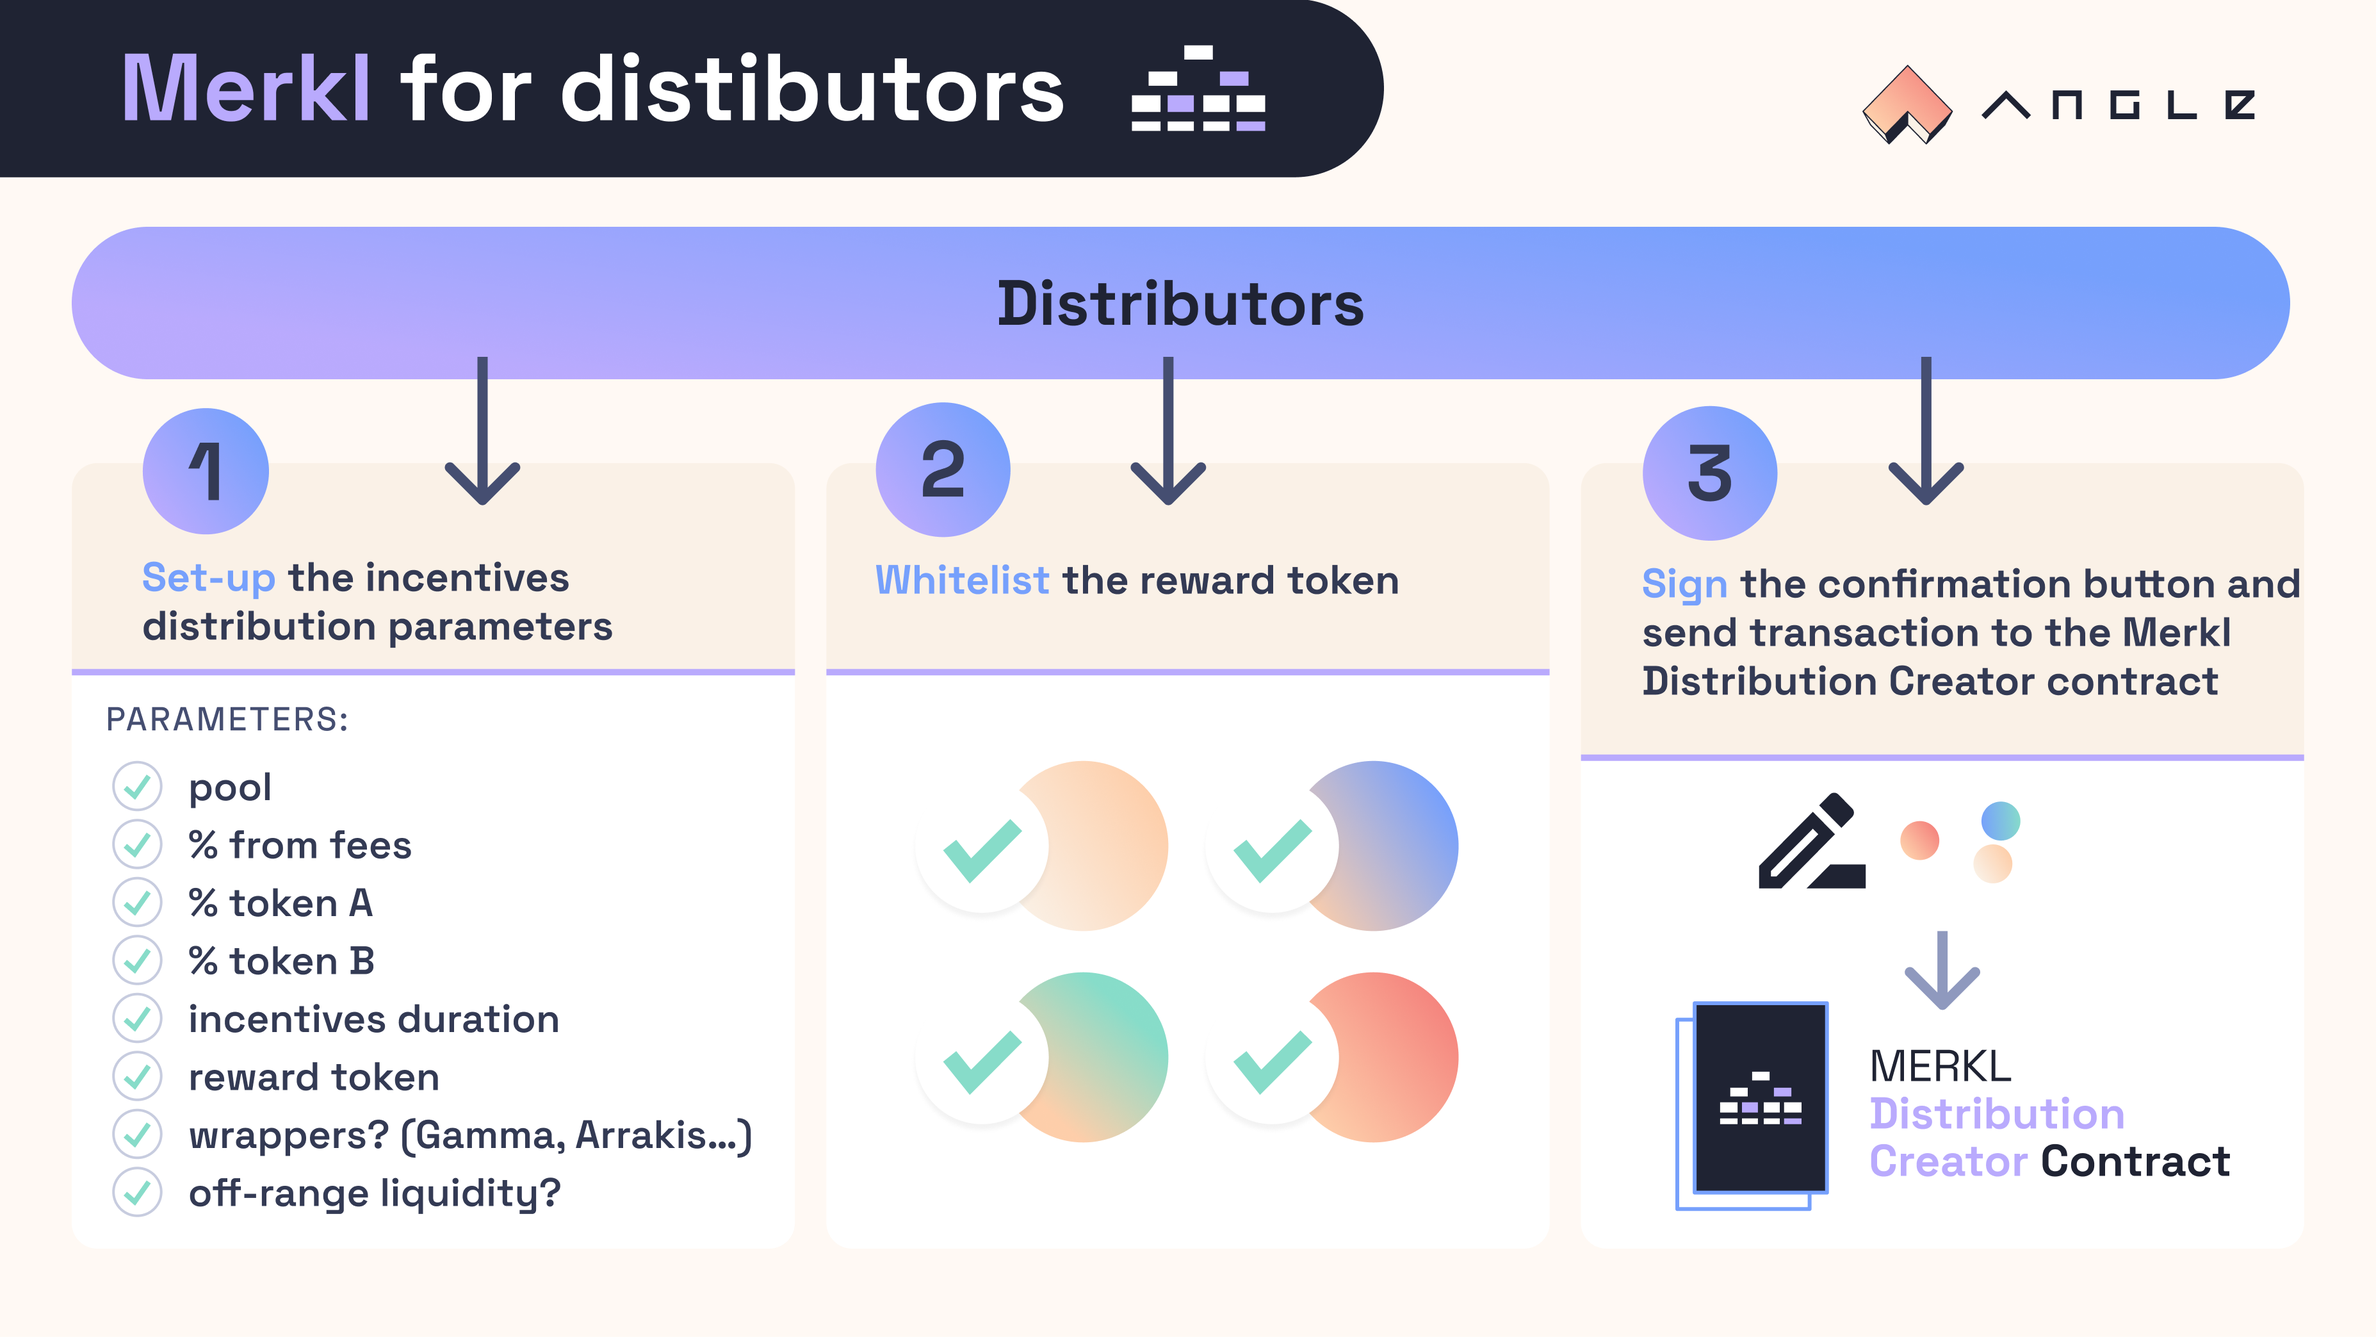
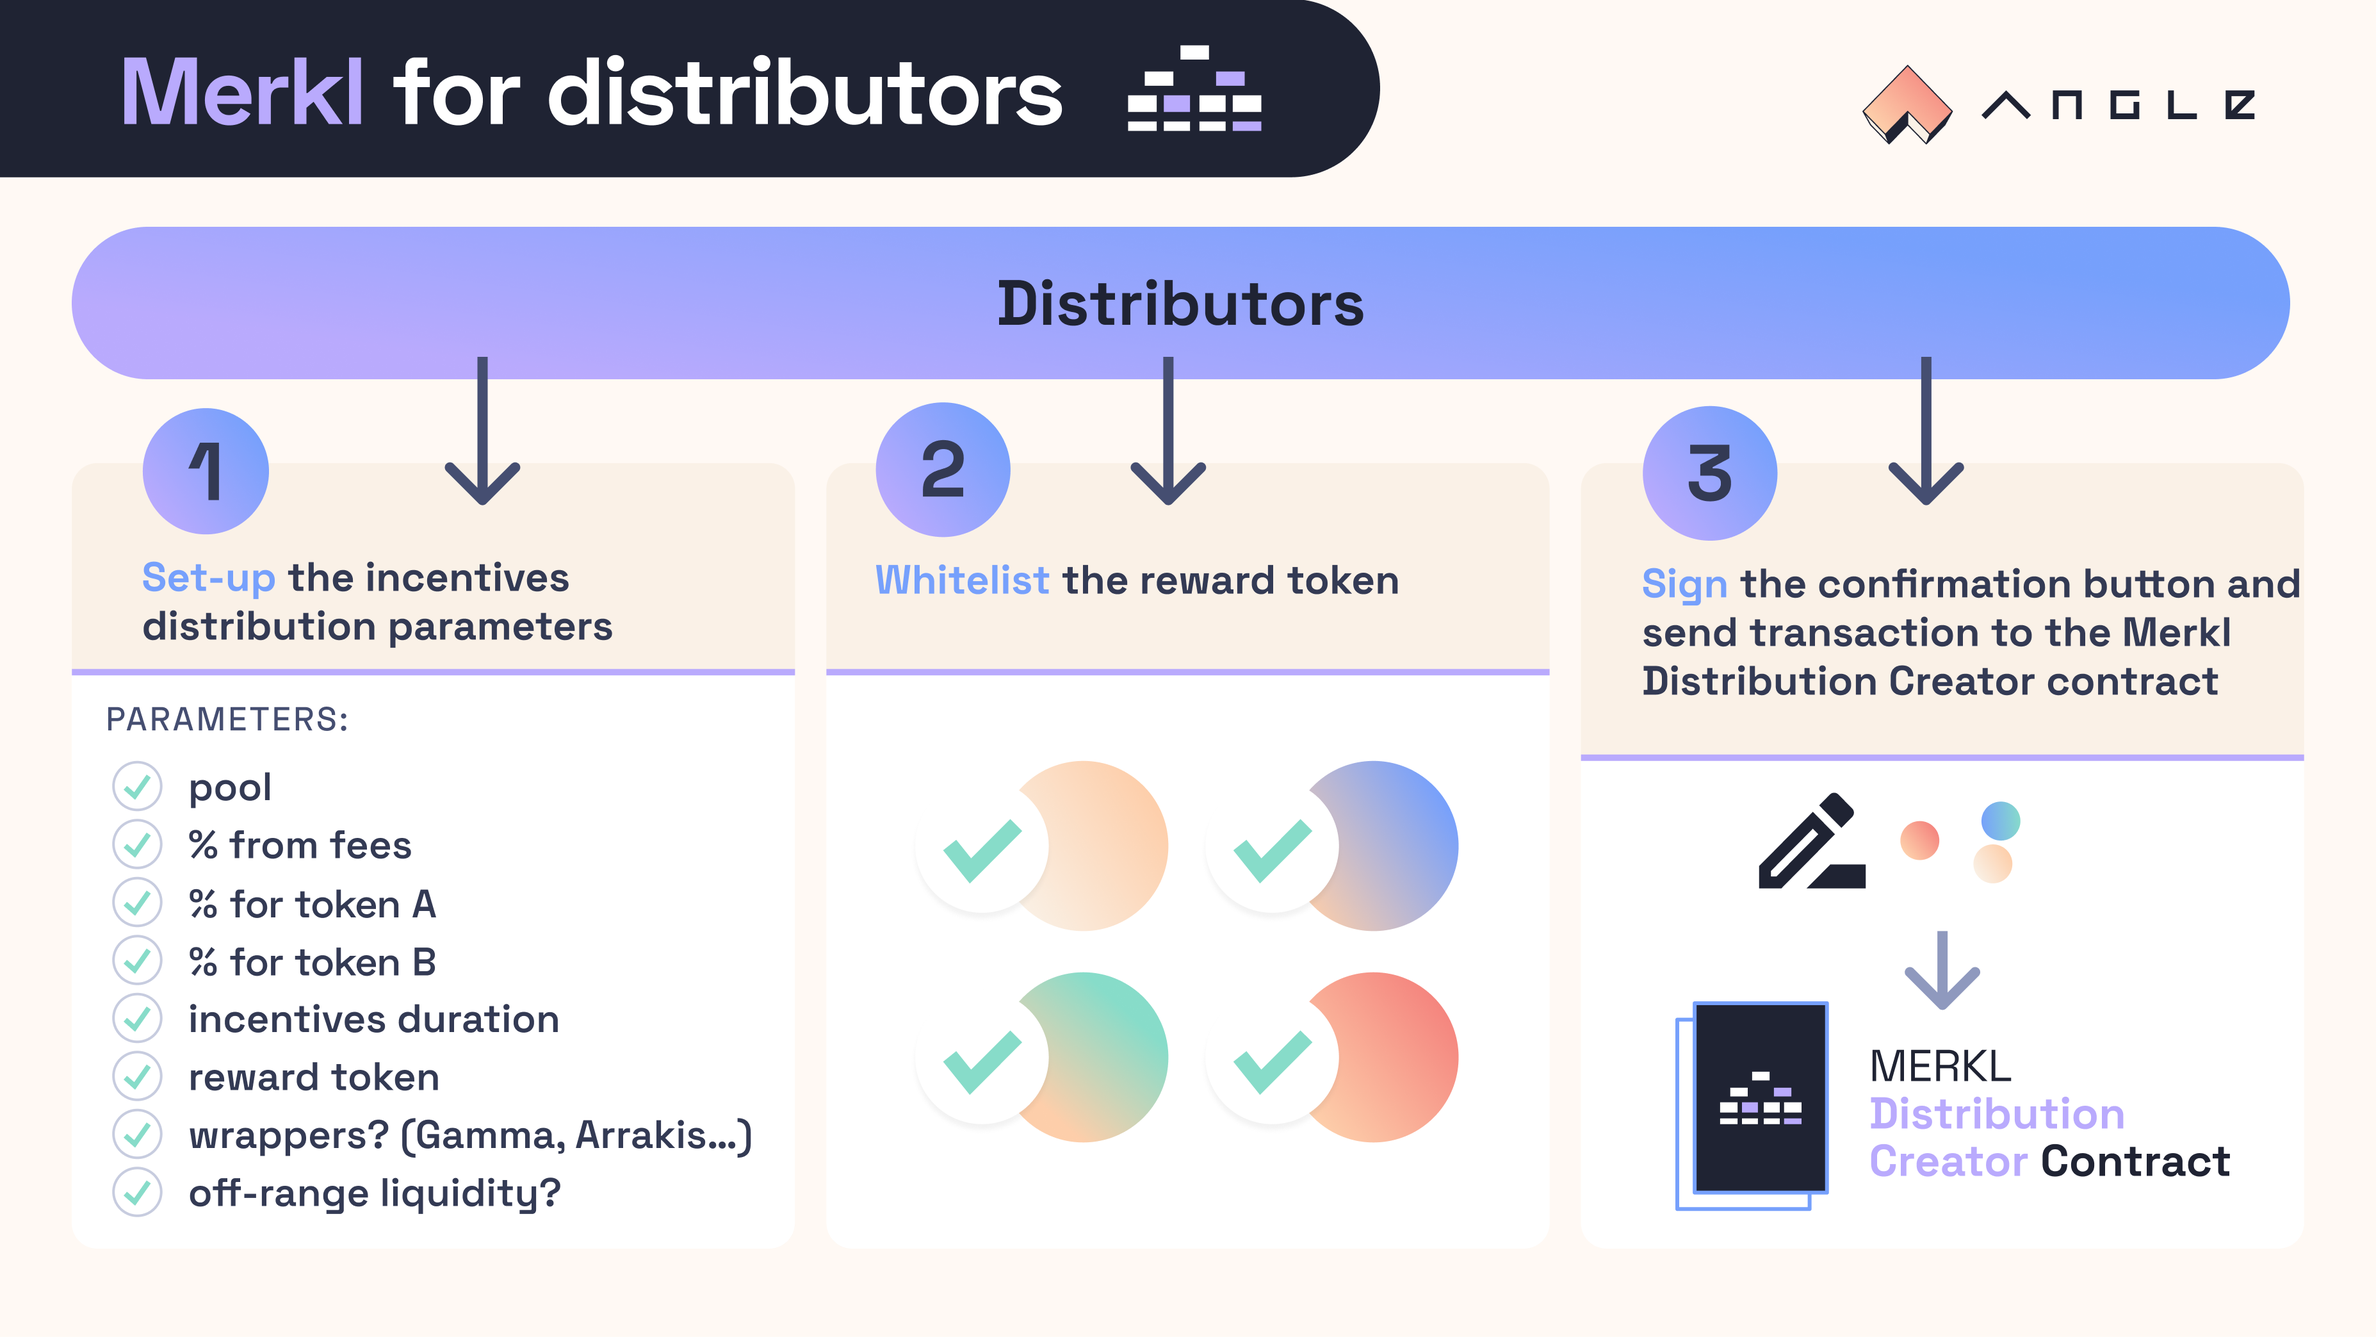
Incentivization incentives rewording (#178)
* delete incentivization

* update distributors visual

Changed region(s): [[0.062, 0.0311, 0.465, 0.0934], [0.093, 0.654, 0.186, 0.7475], [0.496, 0.0623, 0.527, 0.0934]]

diff --git a/SUMMARY.md b/SUMMARY.md
@@ -2,112 +2,112 @@
 
 ## Overview
 
-* [📐 Angle Documentation Portal](README.md)
-* [⚒ Developers](https://developers.angle.money)
-* [📖 Whitepapers](whitepapers.md)
-* [📒 Glossary](global-glossary.md)
-* [🔗 Quick Links](links.md)
-* [🖼 Stablecoins](stablecoins.md)
-* [🎓 Guides](guides/README.md)
-  * [🚶 First Steps in Crypto](guides/newbie.md)
-  * [🧩 Use cases](guides/use-cases/README.md)
-    * [💸 Pay and get paid with agEUR](guides/use-cases/ageur-power-usecase.md)
-    * [🏦 agEUR as a treasury asset](guides/use-cases/ageur-treasury.md)
-  * [📔 App Guides](guides/app-guides/README.md)
-    * [💱 Swap](guides/app-guides/agEUR/swap.md)
-    * [🏦 Borrow](guides/app-guides/agEUR/borrow.md)
-    * [🌉 Bridge](guides/app-guides/agEUR/bridge.md)
-    * [💳 On-ramp & off-ramp](guides/app-guides/agEUR/on-ramp-off-ramp.md)
-    * [⚖ Leverage](guides/app-guides/trade/leverage.md)
-    * [🛡 Perpetuals](guides/app-guides/trade/perpetuals.md)
-    * [🍀 Staking](guides/app-guides/earn/staking.md)
-      * [🦄 Uniswap V3 incentivization mechanism](guides/app-guides/earn/staking/univ3-lp.md)
-    * [💰 Buy](guides/app-guides/ANGLE/buy.md)
-    * [🔒 Lock](guides/app-guides/ANGLE/lock.md)
-    * [🧪 Gauges](guides/app-guides/ANGLE/gauges-voting.md)
-    * [🗳 Vote](guides/app-guides/ANGLE/snapshot-votes.md)
-    * [🧮 App Formulas](guides/other/formulas.md)
+- [📐 Angle Documentation Portal](README.md)
+- [⚒ Developers](https://developers.angle.money)
+- [📖 Whitepapers](whitepapers.md)
+- [📒 Glossary](global-glossary.md)
+- [🔗 Quick Links](links.md)
+- [🖼 Stablecoins](stablecoins.md)
+- [🎓 Guides](guides/README.md)
+  - [🚶 First Steps in Crypto](guides/newbie.md)
+  - [🧩 Use cases](guides/use-cases/README.md)
+    - [💸 Pay and get paid with agEUR](guides/use-cases/ageur-power-usecase.md)
+    - [🏦 agEUR as a treasury asset](guides/use-cases/ageur-treasury.md)
+  - [📔 App Guides](guides/app-guides/README.md)
+    - [💱 Swap](guides/app-guides/agEUR/swap.md)
+    - [🏦 Borrow](guides/app-guides/agEUR/borrow.md)
+    - [🌉 Bridge](guides/app-guides/agEUR/bridge.md)
+    - [💳 On-ramp & off-ramp](guides/app-guides/agEUR/on-ramp-off-ramp.md)
+    - [⚖ Leverage](guides/app-guides/trade/leverage.md)
+    - [🛡 Perpetuals](guides/app-guides/trade/perpetuals.md)
+    - [🍀 Staking](guides/app-guides/earn/staking.md)
+      - [🦄 Uniswap V3 incentive mechanism](guides/app-guides/earn/staking/univ3-lp.md)
+    - [💰 Buy](guides/app-guides/ANGLE/buy.md)
+    - [🔒 Lock](guides/app-guides/ANGLE/lock.md)
+    - [🧪 Gauges](guides/app-guides/ANGLE/gauges-voting.md)
+    - [🗳 Vote](guides/app-guides/ANGLE/snapshot-votes.md)
+    - [🧮 App Formulas](guides/other/formulas.md)
 
 ## Angle Core Module
 
-* [🔭 Angle Core Module Overview](core-module/overview.md)
-* [💱 Stable Seekers and Holders](core-module/stable-seekers/README.md)
-  * [FAQ - Stable Seekers and Holders](core-module/stable-seekers/faq-stable.md)
-* [🛡 Hedging Agents](core-module/hedging-agents/README.md)
-  * [FAQ - Hedging Agents](core-module/hedging-agents/faq-ha.md)
-* [🍀 Standard Liquidity Providers](core-module/standard-liquidity-providers/README.md)
-  * [FAQ - Standard Liquidity Providers](core-module/standard-liquidity-providers/faq-slps.md)
-* [📈 Lending Strategies - Yield on Reserves](core-module/lending.md)
-* [🔍 Other aspects](core-module/other-aspects/README.md)
-  * [🏭 Keepers](core-module/other-aspects/keepers.md)
-  * [🔱 Oracles](core-module/other-aspects/oracles.md)
-  * [📊 Collateral Ratio](core-module/other-aspects/collateral-ratio.md)
-  * [🚑 Risks and Emergency Modules](core-module/other-aspects/emergency-modules.md)
-  * [⌛ Collateral Settlement](core-module/other-aspects/collateral-settlement.md)
-* [📚 Glossary](core-module/glossary.md)
-* [❓ FAQ](core-module/faq.md)
+- [🔭 Angle Core Module Overview](core-module/overview.md)
+- [💱 Stable Seekers and Holders](core-module/stable-seekers/README.md)
+  - [FAQ - Stable Seekers and Holders](core-module/stable-seekers/faq-stable.md)
+- [🛡 Hedging Agents](core-module/hedging-agents/README.md)
+  - [FAQ - Hedging Agents](core-module/hedging-agents/faq-ha.md)
+- [🍀 Standard Liquidity Providers](core-module/standard-liquidity-providers/README.md)
+  - [FAQ - Standard Liquidity Providers](core-module/standard-liquidity-providers/faq-slps.md)
+- [📈 Lending Strategies - Yield on Reserves](core-module/lending.md)
+- [🔍 Other aspects](core-module/other-aspects/README.md)
+  - [🏭 Keepers](core-module/other-aspects/keepers.md)
+  - [🔱 Oracles](core-module/other-aspects/oracles.md)
+  - [📊 Collateral Ratio](core-module/other-aspects/collateral-ratio.md)
+  - [🚑 Risks and Emergency Modules](core-module/other-aspects/emergency-modules.md)
+  - [⌛ Collateral Settlement](core-module/other-aspects/collateral-settlement.md)
+- [📚 Glossary](core-module/glossary.md)
+- [❓ FAQ](core-module/faq.md)
 
 ## Angle Borrowing Module
 
-* [🔭 Borrowing Module Overview](borrowing-module/README.md)
-* [🏦 Vaults](borrowing-module/vaults/README.md)
-  * [💵 Fees and revenue](borrowing-module/vaults/fees.md)
-  * [🎳 Liquidations](borrowing-module/vaults/liquidations.md)
-  * [🤝 Whitelisting and volatile assets](borrowing-module/vaults/whitelisting-and-volatile-assets.md)
-  * [🗡 Vaults Settlement](borrowing-module/vaults/settlement.md)
-* [📚 Glossary](borrowing-module/glossary.md)
+- [🔭 Borrowing Module Overview](borrowing-module/README.md)
+- [🏦 Vaults](borrowing-module/vaults/README.md)
+  - [💵 Fees and revenue](borrowing-module/vaults/fees.md)
+  - [🎳 Liquidations](borrowing-module/vaults/liquidations.md)
+  - [🤝 Whitelisting and volatile assets](borrowing-module/vaults/whitelisting-and-volatile-assets.md)
+  - [🗡 Vaults Settlement](borrowing-module/vaults/settlement.md)
+- [📚 Glossary](borrowing-module/glossary.md)
 
 ## Stablecoins Side Modules
 
-* [🌉 Angle Cross-Chain Setup](other/cross-chain.md)
-* [⚙ Algorithmic Market Operations](other/amo.md)
-* [⚡ Flash Loans](other/flash-loans.md)
+- [🌉 Angle Cross-Chain Setup](other/cross-chain.md)
+- [⚙ Algorithmic Market Operations](other/amo.md)
+- [⚡ Flash Loans](other/flash-loans.md)
 
 ## Protocol Governance
 
-* [🗳 Angle DAO](governance/angle-dao.md)
-* [🚀 ANGLE Token](governance/angle-token.md)
-* [♠ veANGLE](governance/veANGLE/README.md)
-  * [🔒 Lock Details](governance/veANGLE/lock-details.md)
-  * [🗳 Gauges](governance/veANGLE/gauges.md)
-  * [💥 Boost](governance/veANGLE/boost.md)
-  * [📈 Interest](governance/veangle/interest.md)
-  * [🔓 Increasing your veANGLE balance](governance/veANGLE/increasing-veANGLE.md)
-* [💂 Angle Guardian](governance/guardian.md)
+- [🗳 Angle DAO](governance/angle-dao.md)
+- [🚀 ANGLE Token](governance/angle-token.md)
+- [♠ veANGLE](governance/veANGLE/README.md)
+  - [🔒 Lock Details](governance/veANGLE/lock-details.md)
+  - [🗳 Gauges](governance/veANGLE/gauges.md)
+  - [💥 Boost](governance/veANGLE/boost.md)
+  - [📈 Interest](governance/veangle/interest.md)
+  - [🔓 Increasing your veANGLE balance](governance/veANGLE/increasing-veANGLE.md)
+- [💂 Angle Guardian](governance/guardian.md)
 
 ## Side Products
 
-* [🥨 Merkl](side-products/merkl/README.md)
-  * [⛓ Integration Helpers](side-products/merkl/helpers.md)
-  * [🌊 Liquidity Provider Guide](side-products/merkl/lp-guide.md)
-  * [💰 Incentivizor Guide](side-products/merkl/incentivizor-guide.md)
-    * [🖋 Incentivizor Disclaimer](side-products/merkl/incentivizor-tc.md)
-  * [📒 Integration Guide](side-products/merkl/integration-guide.md)
+- [🥨 Merkl](side-products/merkl/README.md)
+  - [⛓ Integration Helpers](side-products/merkl/helpers.md)
+  - [🌊 Liquidity Provider Guide](side-products/merkl/lp-guide.md)
+  - [💰 Incentivizor Guide](side-products/merkl/incentivizor-guide.md)
+    - [🖋 Incentivizor Disclaimer](side-products/merkl/incentivizor-tc.md)
+  - [📒 Integration Guide](side-products/merkl/integration-guide.md)
 
 ## Resources
 
-* [🔐 Audits](resources/audits/README.md)
-* [🐛 Bug Bounty](resources/audits/bug-bounty.md)
-* [📊 Angle Analytics](resources/analytics.md)
-* [🌎 International](resources/international/README.md)
-  * [🇷🇺 Russian - русский](resources/international/russian/README.md)
-    * [Whitepaper](resources/international/russian/ru-whitepaper.md)
-    * [Angle FAQ](resources/international/russian/faq.md)
-    * [Представляем Angle Protocol](resources/international/russian/angle-introduction-article.md)
-    * [ценность для держателей стейблкоинов](resources/international/russian/stablecoin-value-proposition.md)
-    * [Значение для хеджинговых агентов](resources/international/russian/ha-value-proposition.md)
-    * [Ценность для стандартных поставщиков ликвидности](resources/international/russian/slp-value-proposition.md)
-    * [Токеномика Angle Protocol](resources/international/russian/tokenomics.md)
-  * [🇨🇳 Chinese - 中国人](resources/international/chinese/README.md)
-    * [角度协议介绍](resources/international/chinese/angle-intro-chinese.md)
-    * [Document/文档](resources/international/chinese/angle-content.md)
-    * [Glossary/词汇表](resources/international/chinese/angle-glossary.md)
-    * [FAQ/常见问题](resources/international/chinese/angle-faq.md)
-    * [Keepers 在 Angle Protocol 的角色](resources/international/chinese/keepers-chinese.md)
-    * [agEUR 和 ANGLE 正式上线 Polygon](resources/international/chinese/tokens-polygon.md)
-    * [Partnering with Superfluid](resources/international/chinese/superfluid.md)
-  * [🇯🇵 Japanese - 日本語](resources/international/japanese/README.md)
-    * [Angle FAQ](resources/international/japanese/faq.md)
-    * [Angle プロトコルの紹介](resources/international/japanese/angle-intro-japanese.md)
-  * [🇹🇷 Turkish](resources/international/turkish/README.md)
-  * [🇪🇸 Spanish](resources/international/spanish/README.md)
+- [🔐 Audits](resources/audits/README.md)
+- [🐛 Bug Bounty](resources/audits/bug-bounty.md)
+- [📊 Angle Analytics](resources/analytics.md)
+- [🌎 International](resources/international/README.md)
+  - [🇷🇺 Russian - русский](resources/international/russian/README.md)
+    - [Whitepaper](resources/international/russian/ru-whitepaper.md)
+    - [Angle FAQ](resources/international/russian/faq.md)
+    - [Представляем Angle Protocol](resources/international/russian/angle-introduction-article.md)
+    - [ценность для держателей стейблкоинов](resources/international/russian/stablecoin-value-proposition.md)
+    - [Значение для хеджинговых агентов](resources/international/russian/ha-value-proposition.md)
+    - [Ценность для стандартных поставщиков ликвидности](resources/international/russian/slp-value-proposition.md)
+    - [Токеномика Angle Protocol](resources/international/russian/tokenomics.md)
+  - [🇨🇳 Chinese - 中国人](resources/international/chinese/README.md)
+    - [角度协议介绍](resources/international/chinese/angle-intro-chinese.md)
+    - [Document/文档](resources/international/chinese/angle-content.md)
+    - [Glossary/词汇表](resources/international/chinese/angle-glossary.md)
+    - [FAQ/常见问题](resources/international/chinese/angle-faq.md)
+    - [Keepers 在 Angle Protocol 的角色](resources/international/chinese/keepers-chinese.md)
+    - [agEUR 和 ANGLE 正式上线 Polygon](resources/international/chinese/tokens-polygon.md)
+    - [Partnering with Superfluid](resources/international/chinese/superfluid.md)
+  - [🇯🇵 Japanese - 日本語](resources/international/japanese/README.md)
+    - [Angle FAQ](resources/international/japanese/faq.md)
+    - [Angle プロトコルの紹介](resources/international/japanese/angle-intro-japanese.md)
+  - [🇹🇷 Turkish](resources/international/turkish/README.md)
+  - [🇪🇸 Spanish](resources/international/spanish/README.md)

diff --git a/README.md b/README.md
@@ -16,9 +16,9 @@ It can be used to issue stablecoins, called agTokens, designed to mirror the val
 
 On top of its stablecoin products, Angle Protocol also offers ways to:
 
-* Trade perpetual futures
-* Earn yield from strategies
-* Get leverage on a wide range of assets
+- Trade perpetual futures
+- Earn yield from strategies
+- Get leverage on a wide range of assets
 
 The protocol consists of several different modules, or sets of smart contracts, from which stablecoins can be issued or minted. While Angle launched its first stablecoin agEUR with a single minting module (the [Core module](core-module/overview.md)), a [Borrowing module](borrowing-module/) allowing to borrow Angle stablecoins against deposited collateral has been introduced.
 
@@ -28,8 +28,8 @@ The protocol is also engaged into [Direct Deposit Modules](other/amo.md), also c
 
 Angle is so far behind two stablecoins:
 
-* agEUR: pegged to the value of the Euro - €.
-* agGOLD: pegged to the value of 1 Troy ounce of Gold (1 oz t = 0.031kg).
+- agEUR: pegged to the value of the Euro - €.
+- agGOLD: pegged to the value of 1 Troy ounce of Gold (1 oz t = 0.031kg).
 
 ### [Core module](core-module/overview.md)
 
@@ -69,7 +69,7 @@ The protocol's smart contracts have undergone several audits by Chainsecurity an
 
 Products developed for the Angle Protocol can also bring value to the wider DeFi userbase. Some of them are being released as standalone products so that anyone can benefit from them.
 
-This is notably the case of [🥨 Merkl](side-products/merkl/README.md.md), an incentivization framework for AMMs with concentrated liquidity (like Uniswap V3) ran by Angle Labs.
+This is notably the case of [🥨 Merkl](side-products/merkl/README.md.md), an incentive framework for AMMs with concentrated liquidity (like Uniswap V3) ran by Angle Labs.
 
 ## 🖼 Branding
 

diff --git a/side-products/merkl/README.md b/side-products/merkl/README.md
@@ -32,7 +32,7 @@ The script is ran regularly and for specific periods of time each time. This mea
 
 ![Merkl Script](../../.gitbook/assets/docs-merkl-script.png)
 
-### 💪 Customizable Incentivization Formula
+### 💪 Customizable Distribution Formula
 
 Precisely speaking, for a given pool with two tokens (A and B), the script looks into the swaps that took place on the pool during the period for which it is ran and computes a reward score for each position according to:
 

diff --git a/guides/app-guides/earn/staking/univ3-lp.md b/guides/app-guides/earn/staking/univ3-lp.md
@@ -1,5 +1,5 @@
 ---
-description: Details on Angle Uniswap V3 incentivization mechanism for LPs
+description: Details on Angle Uniswap V3 incentive mechanism for LPs
 ---
 
 # 🦄 Incentives for Uniswap V3 Liquidity Providers
